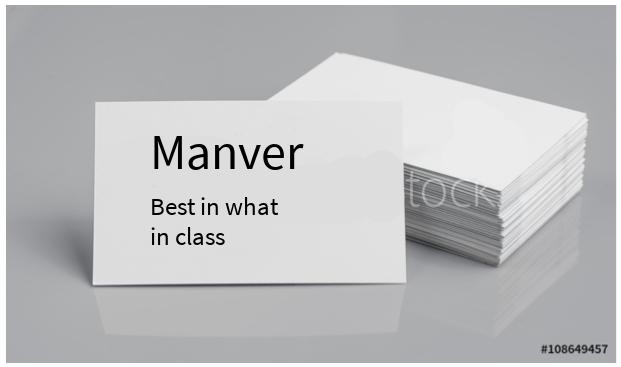
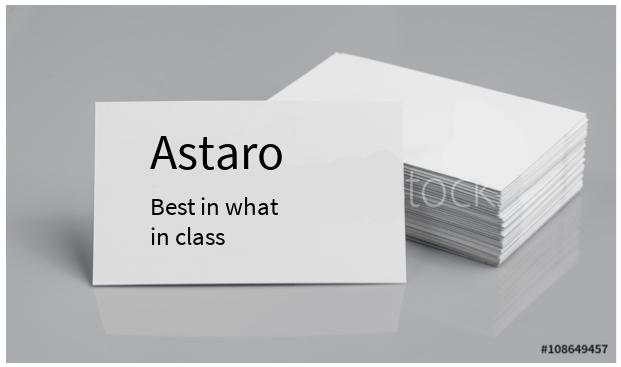
Change to font weights

Changed region(s): [[0.2448, 0.3597, 0.4895, 0.4796]]

diff --git a/templates/layout.html b/templates/layout.html
@@ -10,7 +10,7 @@
     <!-- Bootstrap -->
     <link rel=stylesheet type=text/css href="{{ url_for('static', filename='css/bootstrap.min.css') }}">
     <link rel=stylesheet type=text/css href="{{ url_for('static', filename='css/styles.css') }}">
-    <link href="http://fonts.googleapis.com/css?family=Raleway:900,700" rel="stylesheet" type="text/css">
+    <link href="https://fonts.googleapis.com/css?family=Raleway:300,400,500,700,800" rel="stylesheet">
 
     <!-- HTML5 shim and Respond.js for IE8 support of HTML5 elements and media queries -->
     <!-- WARNING: Respond.js doesn't work if you view the page via file:// -->

diff --git a/static/css/styles.css b/static/css/styles.css
@@ -17,6 +17,7 @@ body, html {
     font-size: 200%;
     position: absolute;
     bottom: 100px;
+    font-weight:500;
 }
 
 #funded {
@@ -32,11 +33,12 @@ body, html {
     width: 40%;
     z-index: 999;
     text-align: right;
-    font-weight:900;
+    
     padding: 5px 20px 5px 20px;
 }
 #landing_heading h1 {
     font-size: 4em;
+    font-weight:700;
 }
 
 .fixed-container{
